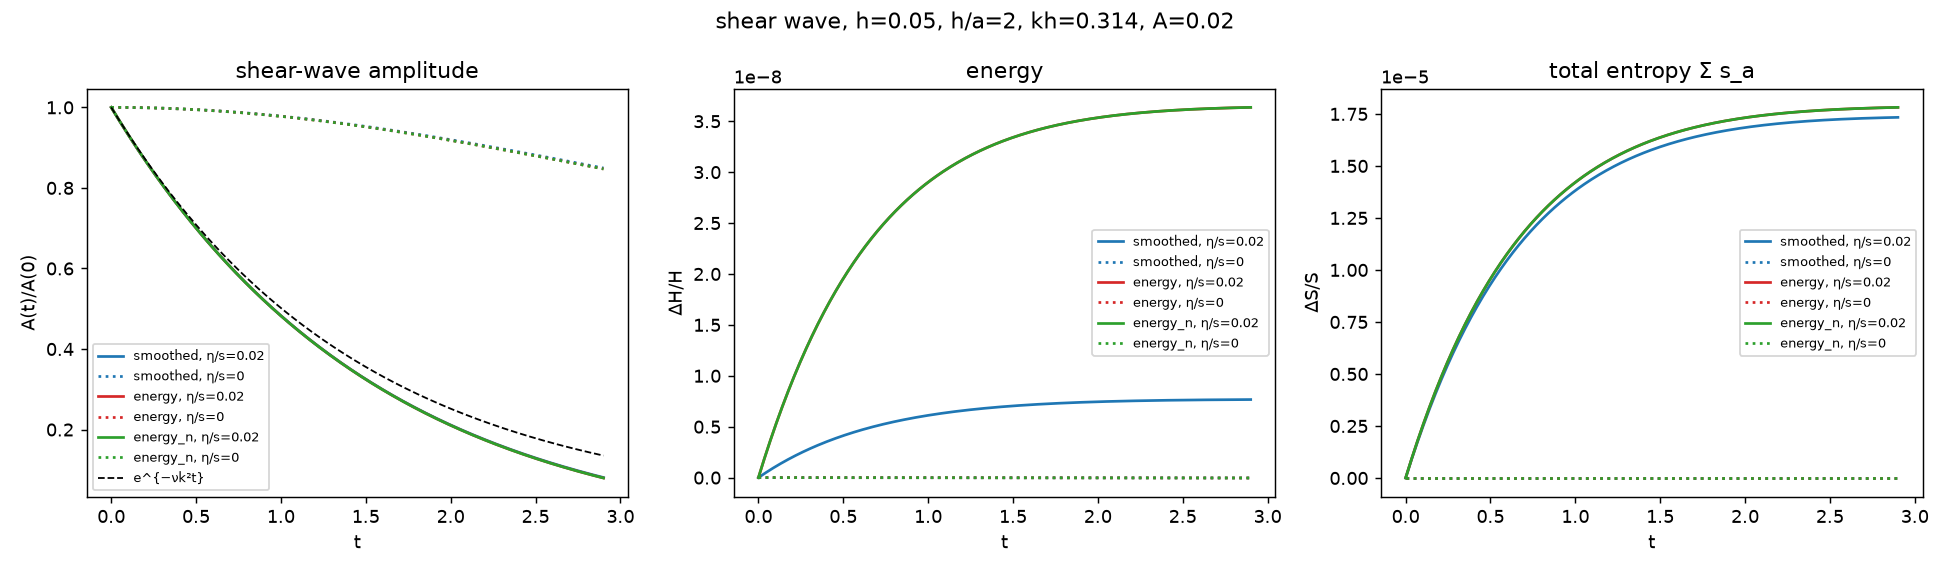
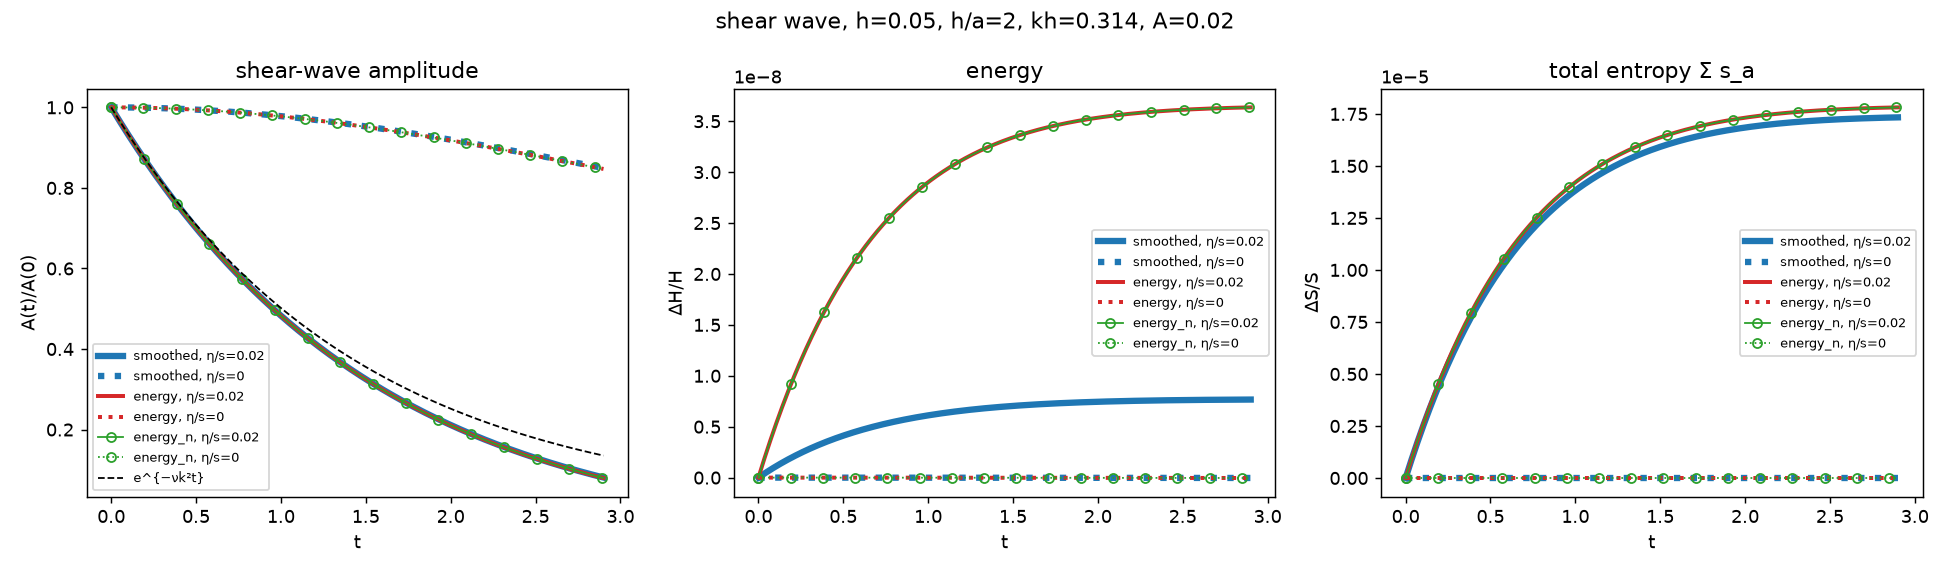
docs/number_tests.tex: shear-wave figures remade so that identical curves stay visible

diff --git a/docs/number_tests.tex b/docs/number_tests.tex
@@ -141,7 +141,7 @@ Gaussian.}
 \includegraphics[width=0.8\textwidth]{figs/number_tests_shearwave_scan.png}
 \caption{Shear waves (\texttt{energy\_n} is the number volume).  Top: $\eta/s=0.02$ and $0$;
 middle: $\eta/s=0.002$ and $0$; bottom: the ideal shear wave for C2 and C6 at $h/a=2$, $3$
-(entropy volume dashed, number volume dotted, on top of each other).}
+(entropy volume dashed, number volume open circles). Where the curves coincide, the wider line is drawn first and the narrower one, or the circles, on top: identical results stay visible.}
 \label{fig:shear}
 \end{figure}
 
